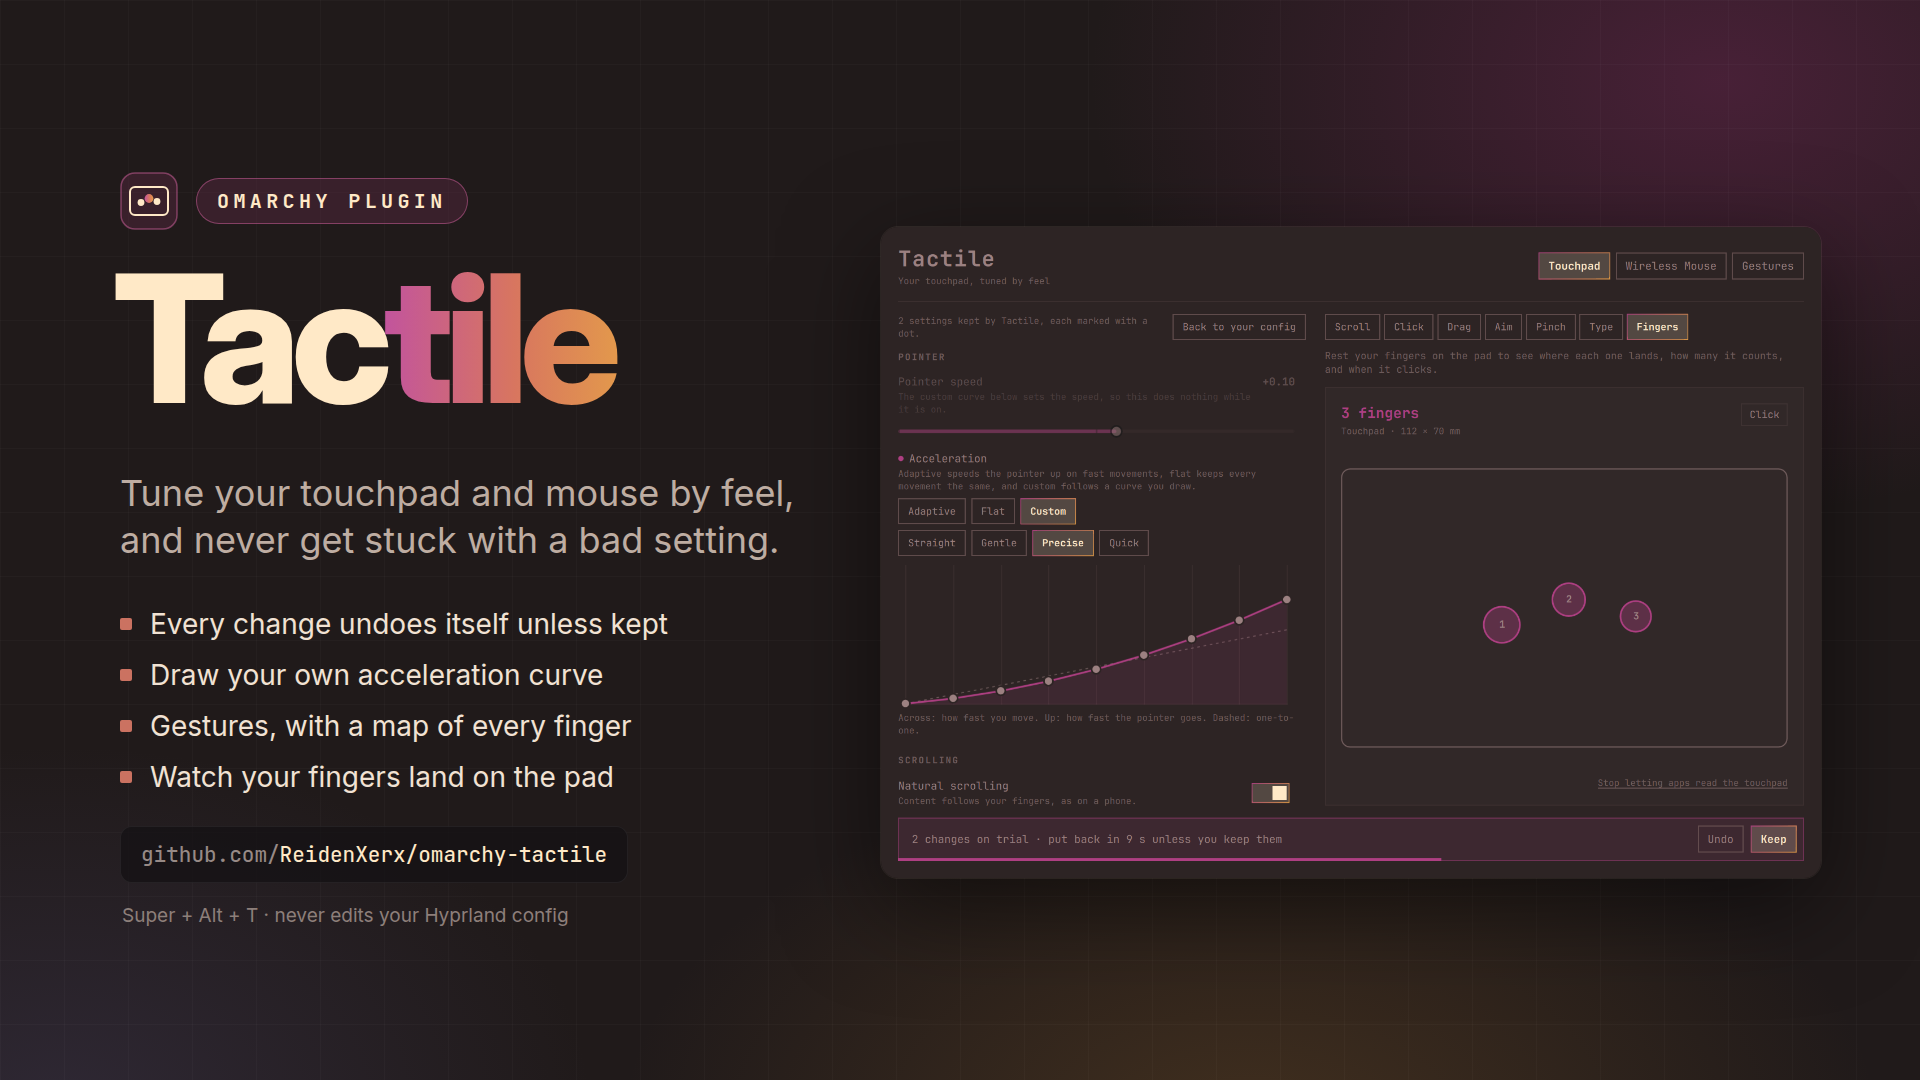
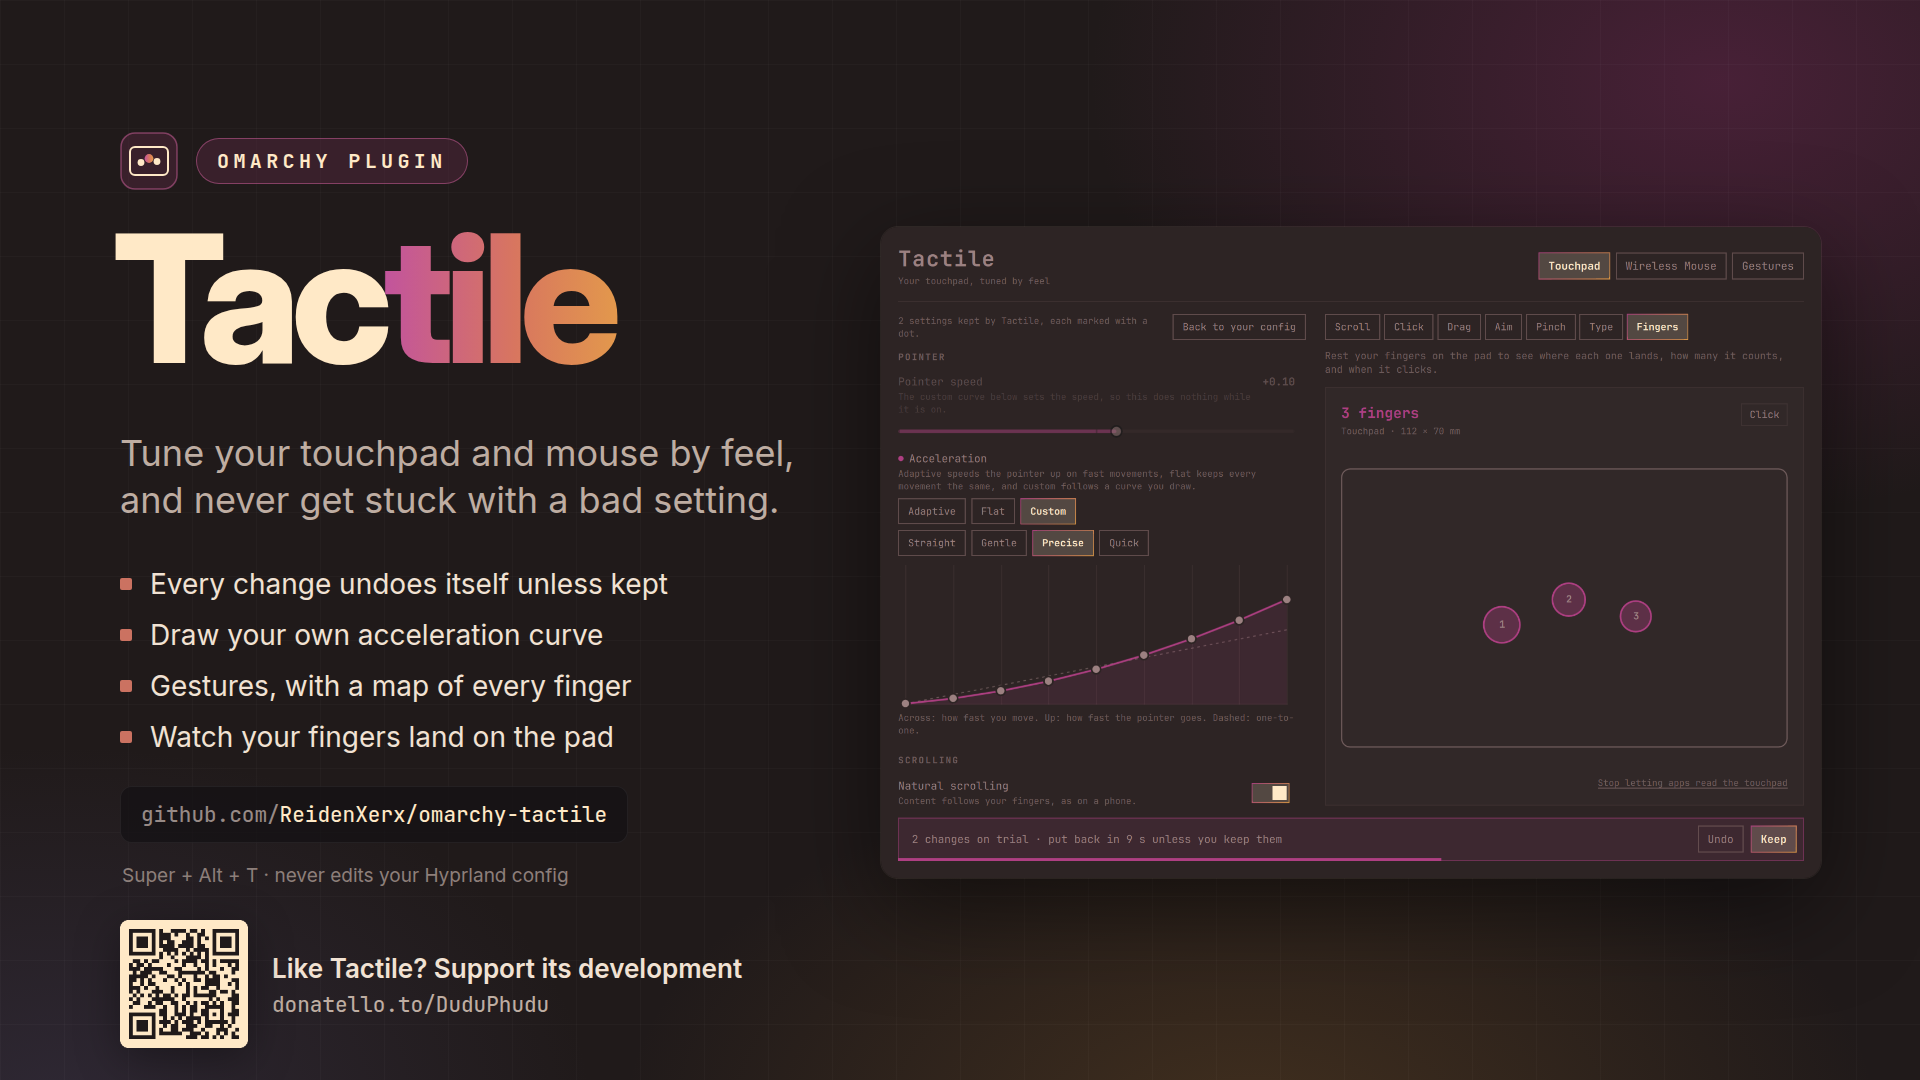
Support link: a Support section and a QR code on the preview
The README ends with a Support section linking to
https://donatello.to/DuduPhudu, and the marketplace preview carries a
QR code for the same page below the repository line.

Claude-Session: https://claude.ai/code/session_019yo64P8KJNrR6aGx5oYCTz

Changed region(s): [[0.0625, 0.1222, 0.4062, 0.9778]]

diff --git a/README.md b/README.md
@@ -117,4 +117,8 @@ python3 tests/fingers_test.py         # the finger reader, on synthetic touchpad
 python3 tests/menu_install_test.py    # the menu installer, in a sandbox
 ```
 
+## Support
+
+If Tactile is useful to you, you can support its development on [Donatello](https://donatello.to/DuduPhudu).
+
 MIT license.
